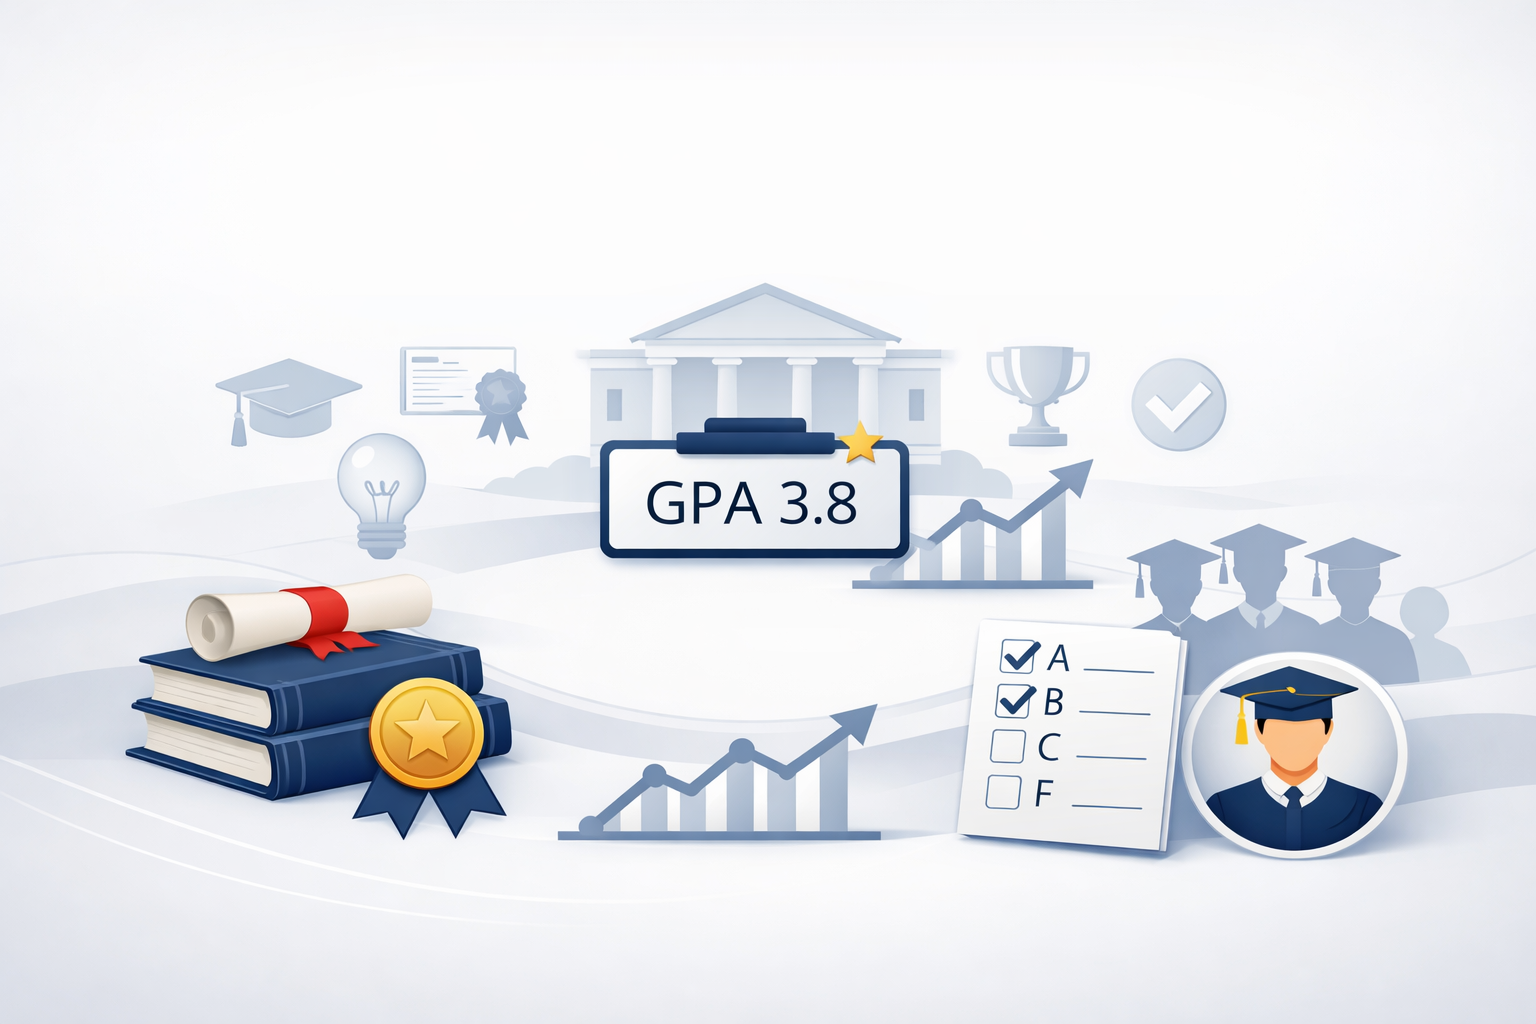
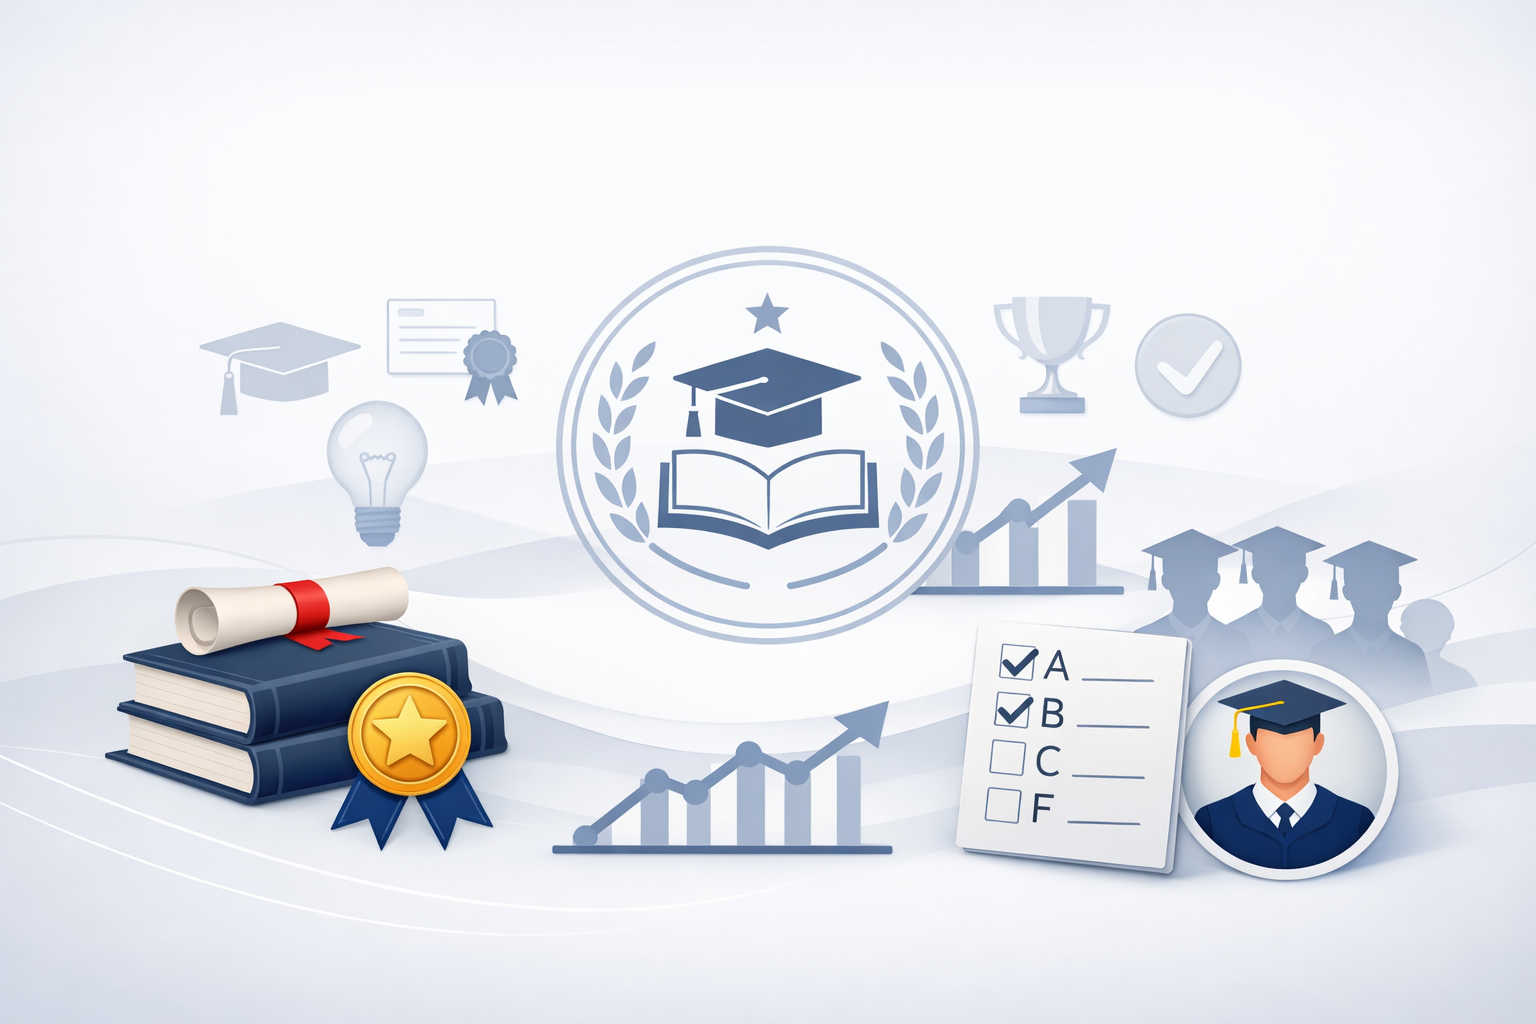
change of Background

Changed region(s): [[0.0625, 0.2188, 1.0, 0.875]]

diff --git a/Frontend/HTML/viewStudents.html b/Frontend/HTML/viewStudents.html
@@ -41,7 +41,7 @@
       font-size: 22px;
     }
 
-    .sidebar button {
+    .sidebar > button {
       background: none;
       border: none;
       color: white;
@@ -52,7 +52,7 @@
       transition: 0.2s;
     }
 
-    .sidebar button:hover {
+    .sidebar > button:hover {
       background-color: #334155;
     }
 
